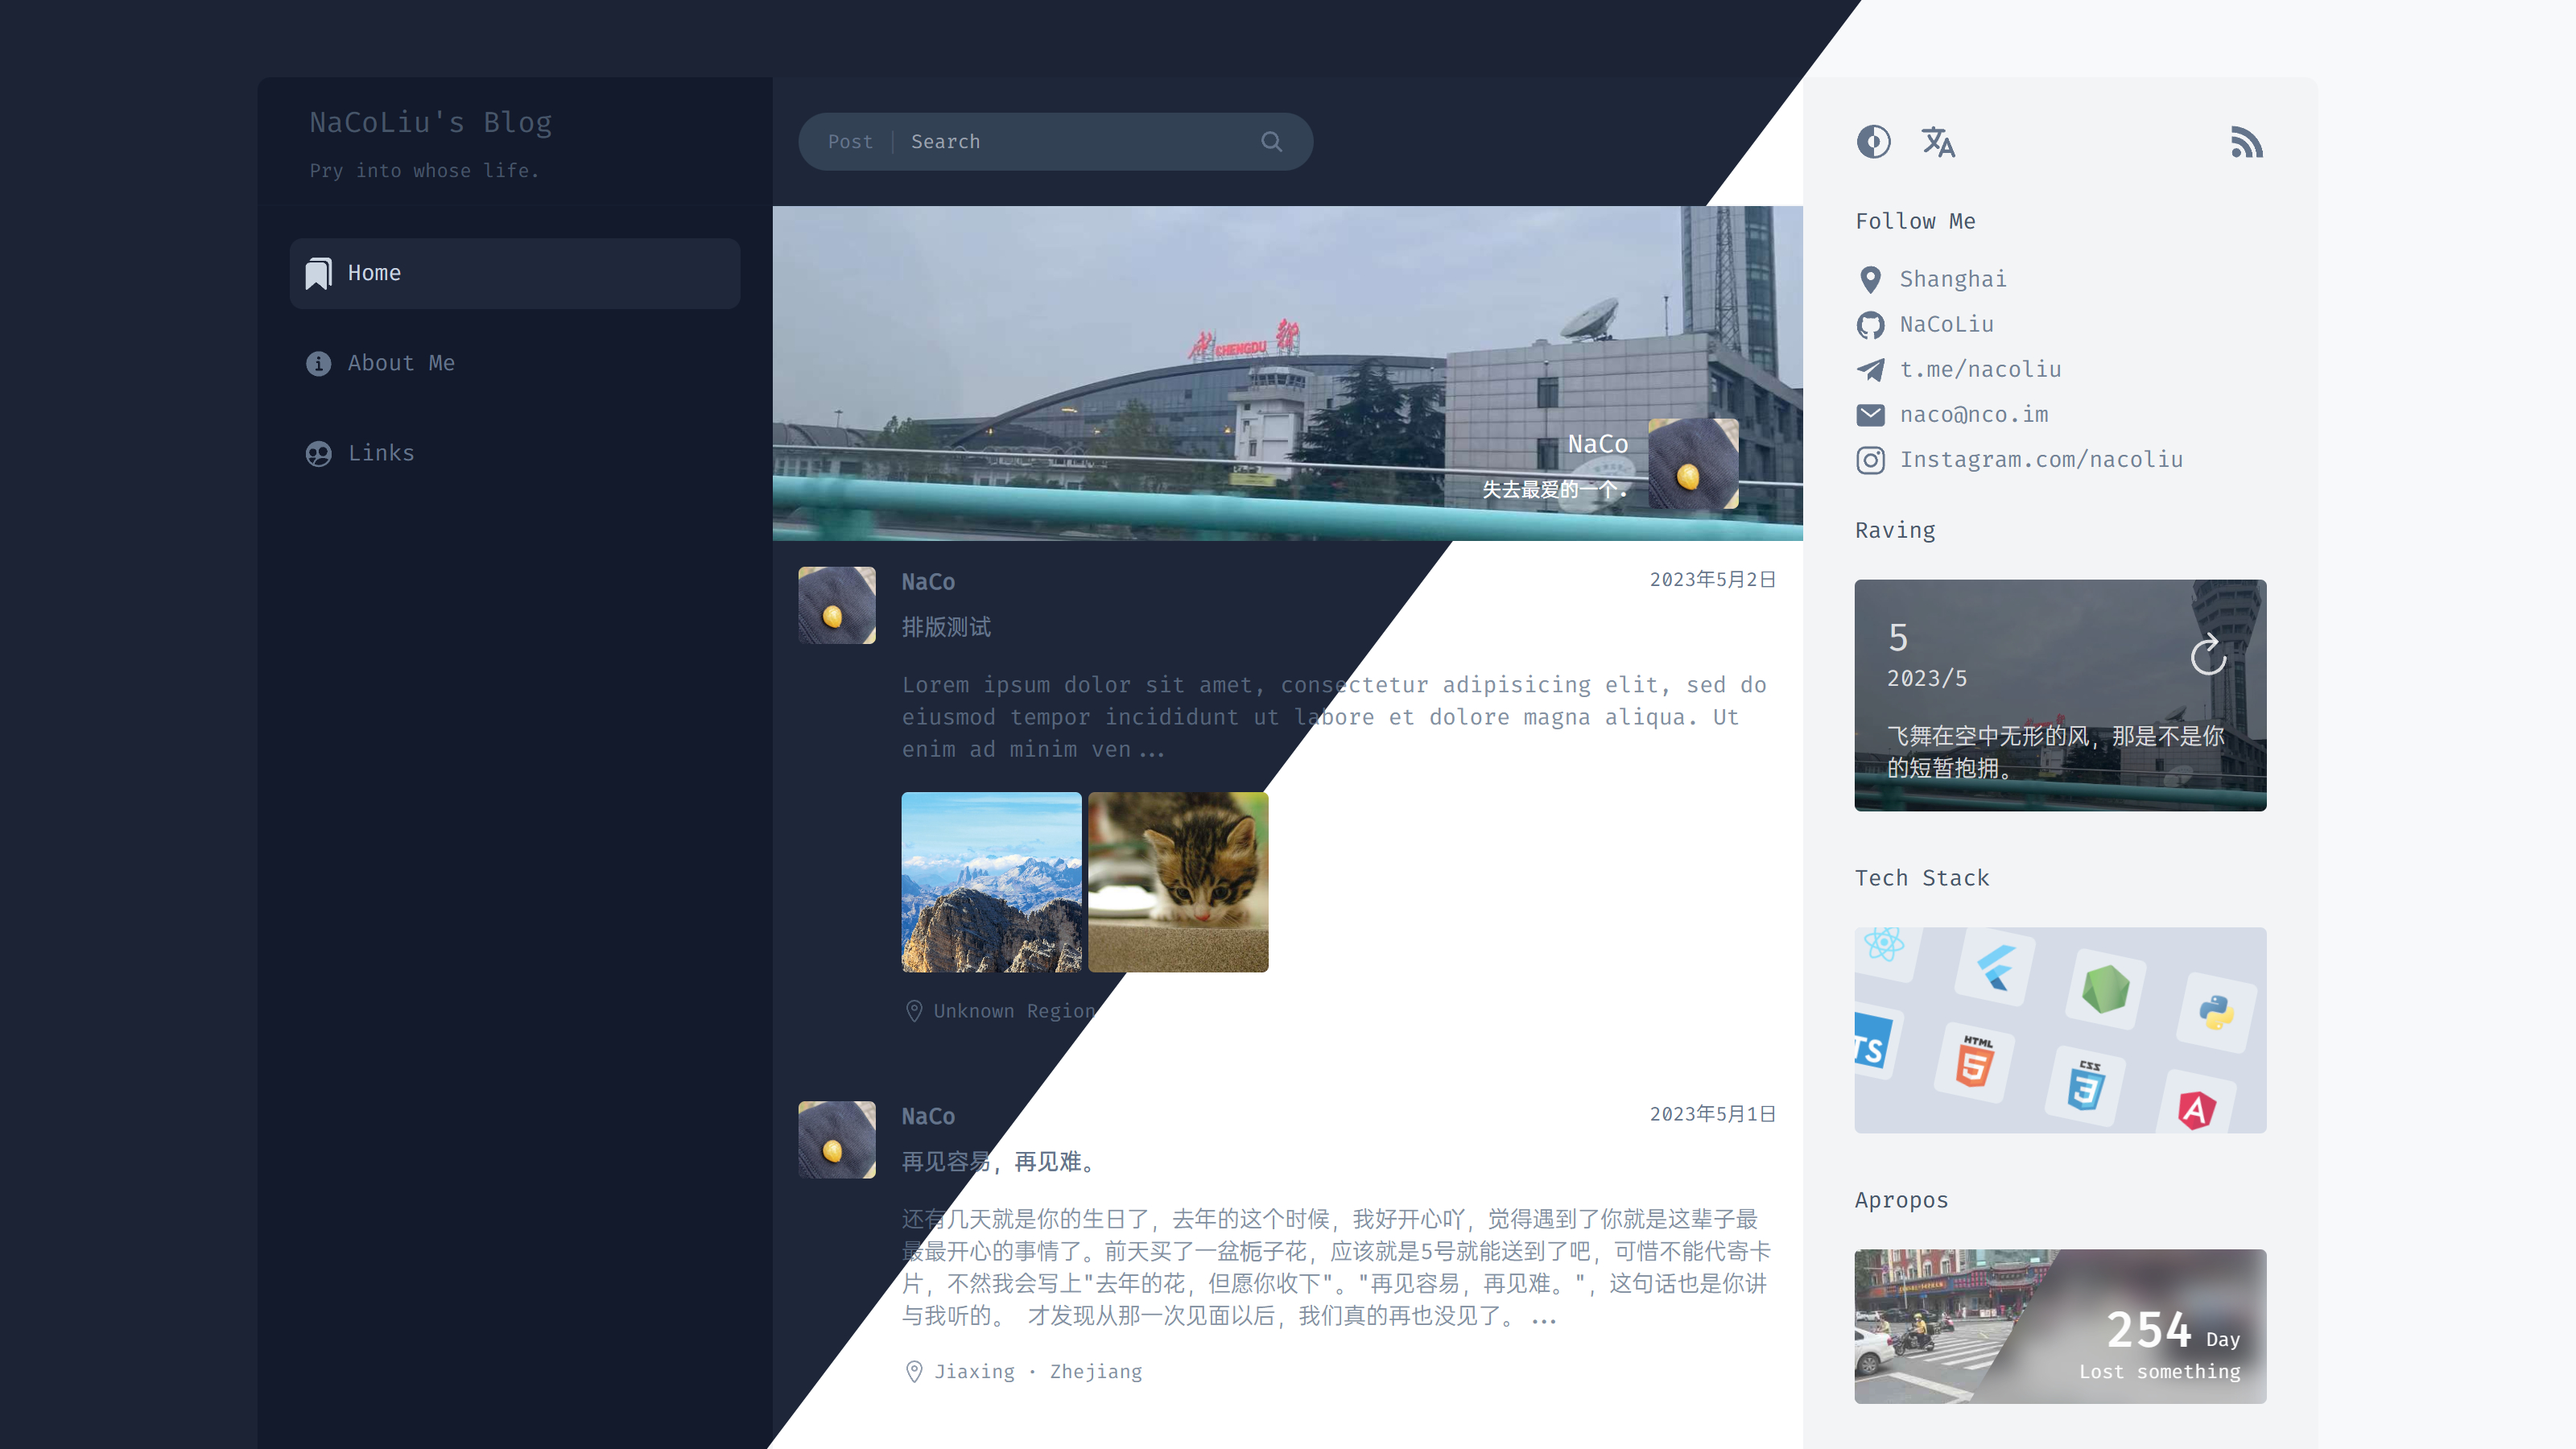
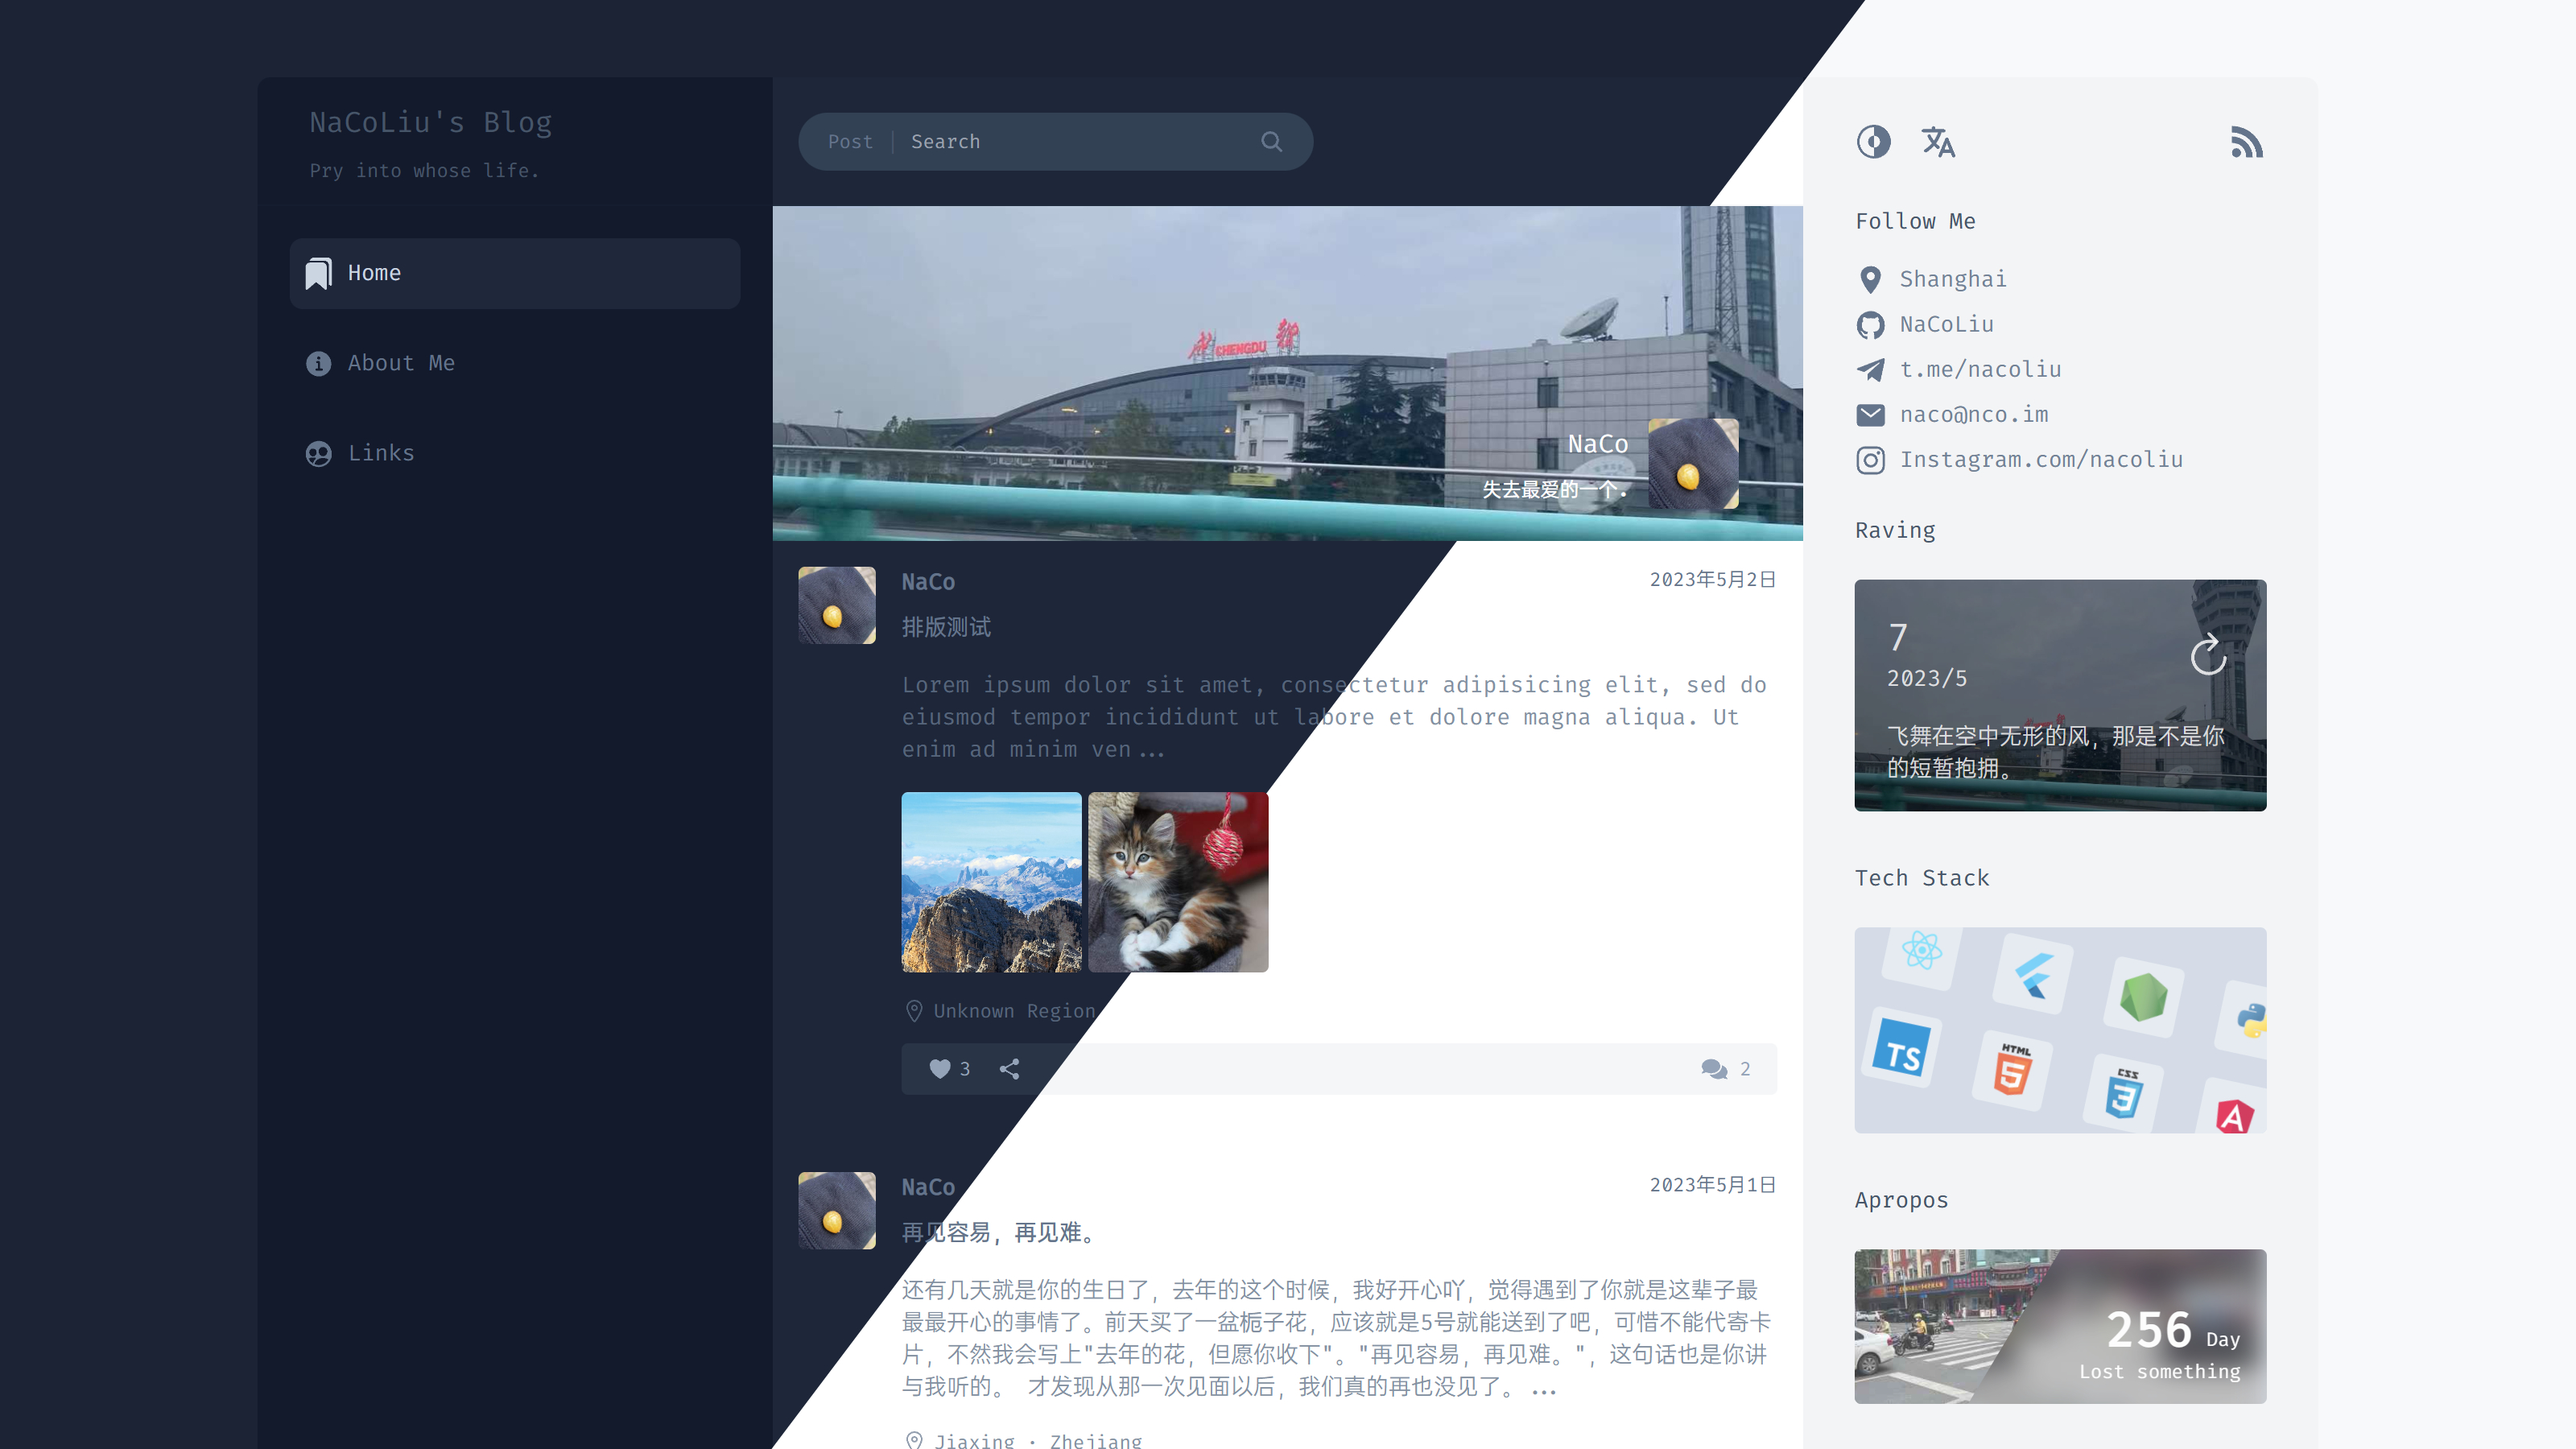
feature(listbar): add comments info

diff --git a/src/dynamic/PhotoView.tsx b/src/dynamic/PhotoView.tsx
@@ -1,9 +1,9 @@
-import { PropType, defineComponent, reactive } from 'vue';
-import { Close } from '@vicons/ionicons5';
-
+import { PropType, defineComponent, reactive, watch } from 'vue';
+import { Close, ArrowBack, ArrowForward } from '@vicons/ionicons5';
+import { useMagicKeys } from '@vueuse/core';
 interface DialogConfig {
   state: boolean;
-  photo: string;
+  photoKey: number;
 }
 
 export default defineComponent({
@@ -14,15 +14,27 @@ export default defineComponent({
     },
   },
   setup(props) {
+    const { escape } = useMagicKeys();
+
     const dialogConfig = reactive<DialogConfig>({
       state: false,
-      photo: '',
+      photoKey: 0,
     });
+
+    watch(
+      () => escape.value,
+      (v) => {
+        if (v && dialogConfig.state) dialogConfig.state = false;
+      },
+      {
+        deep: true,
+      },
+    );
 
     const dialogPhoto = (photo: number) => {
       dialogConfig.state = true;
       document.documentElement.style.overflowY = 'hidden';
-      dialogConfig.photo = props.imgList[photo];
+      dialogConfig.photoKey = photo;
     };
 
     const dialogEvent = () => {
@@ -32,6 +44,24 @@ export default defineComponent({
 
     const stop = (event: Event) => {
       event.stopPropagation();
+    };
+
+    const prevPhoto = (event: Event) => {
+      event.stopPropagation();
+      if (dialogConfig.photoKey === props.imgList.length - 1) {
+        dialogConfig.photoKey = 0;
+      } else {
+        dialogConfig.photoKey++;
+      }
+    };
+
+    const nextPhoto = (event: Event) => {
+      event.stopPropagation();
+      if (dialogConfig.photoKey === 0) {
+        dialogConfig.photoKey = props.imgList.length - 1;
+      } else {
+        dialogConfig.photoKey--;
+      }
     };
 
     return () => {
@@ -44,6 +74,12 @@ export default defineComponent({
               class="fixed w-screen h-screen top-0 bg-gray-950/70 left-0 z-50 flex justify-center items-center"
               onClick={dialogEvent}
             >
+              <div
+                class="w-10 h-10 bg-black/40 text-white flex justify-center items-center cursor-pointer absolute left-0"
+                onClick={prevPhoto}
+              >
+                <ArrowBack class="w-6" />
+              </div>
               <div class="absolute right-0 top-0">
                 <div
                   class="w-12 h-8  bg-slate-900/75 text-white flex items-center justify-center cursor-pointer"
@@ -52,7 +88,13 @@ export default defineComponent({
                   <Close class="w-4" />
                 </div>
               </div>
-              <img src={dialogConfig.photo} class="h-3/4" onClick={stop} />
+              <img src={props.imgList[dialogConfig.photoKey]} class="h-3/4" onClick={stop} />
+              <div
+                class="w-10 h-10  bg-black/40 text-white flex justify-center items-center cursor-pointer absolute right-0"
+                onClick={nextPhoto}
+              >
+                <ArrowForward class="w-6" />
+              </div>
             </div>
           )}
 

diff --git a/src/dynamic/PostListBar.tsx b/src/dynamic/PostListBar.tsx
@@ -1,5 +1,6 @@
 import { defineComponent } from 'vue';
 import { Heart, ShareSocial } from '@vicons/ionicons5';
+import {Comments} from '@vicons/fa'
 import { useClipboard } from '@vueuse/core';
 import { useI18n } from 'vue-i18n';
 export default defineComponent({
@@ -34,7 +35,7 @@ export default defineComponent({
               </div>
             </div>
           </div>
-          <div class="">3</div>
+          <div class="flex cursor-pointer"><Comments  class="w-4 mr-2"/>{2}</div>
         </div>
       </div>
     );

diff --git a/src/stores/ScrollView.ts b/src/stores/ScrollView.ts
@@ -1,0 +1,8 @@
+import { atom } from 'nanostores';
+import { useScroll } from '@vueuse/core'
+import type { Ref } from 'vue';
+export const scrollView = atom<boolean>(false);
+
+export const onInit = (el:Ref<HTMLElement> | null) => {
+    console.log(el)
+}
